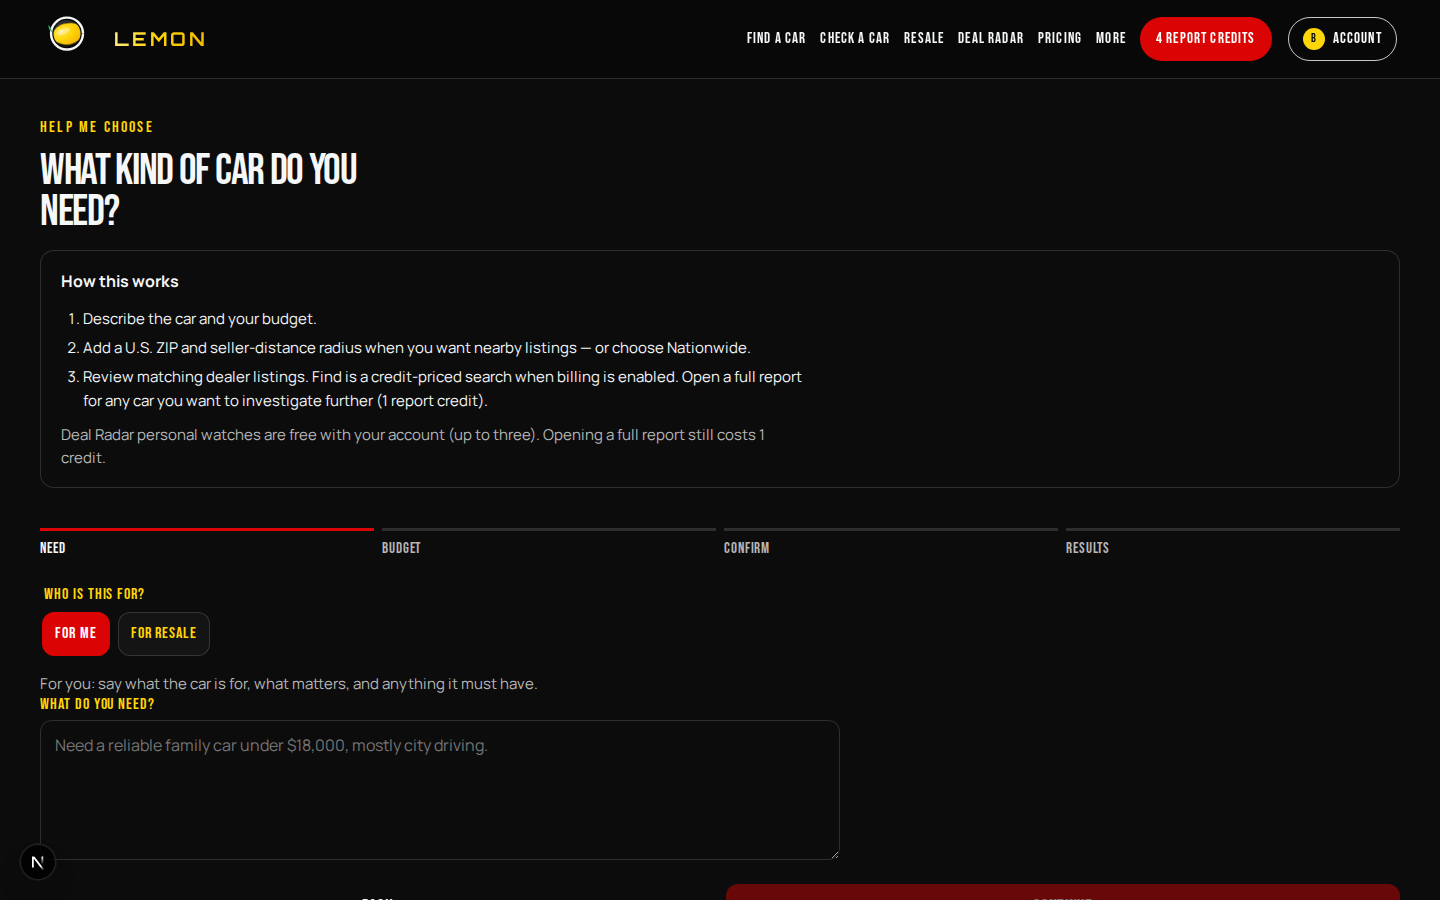
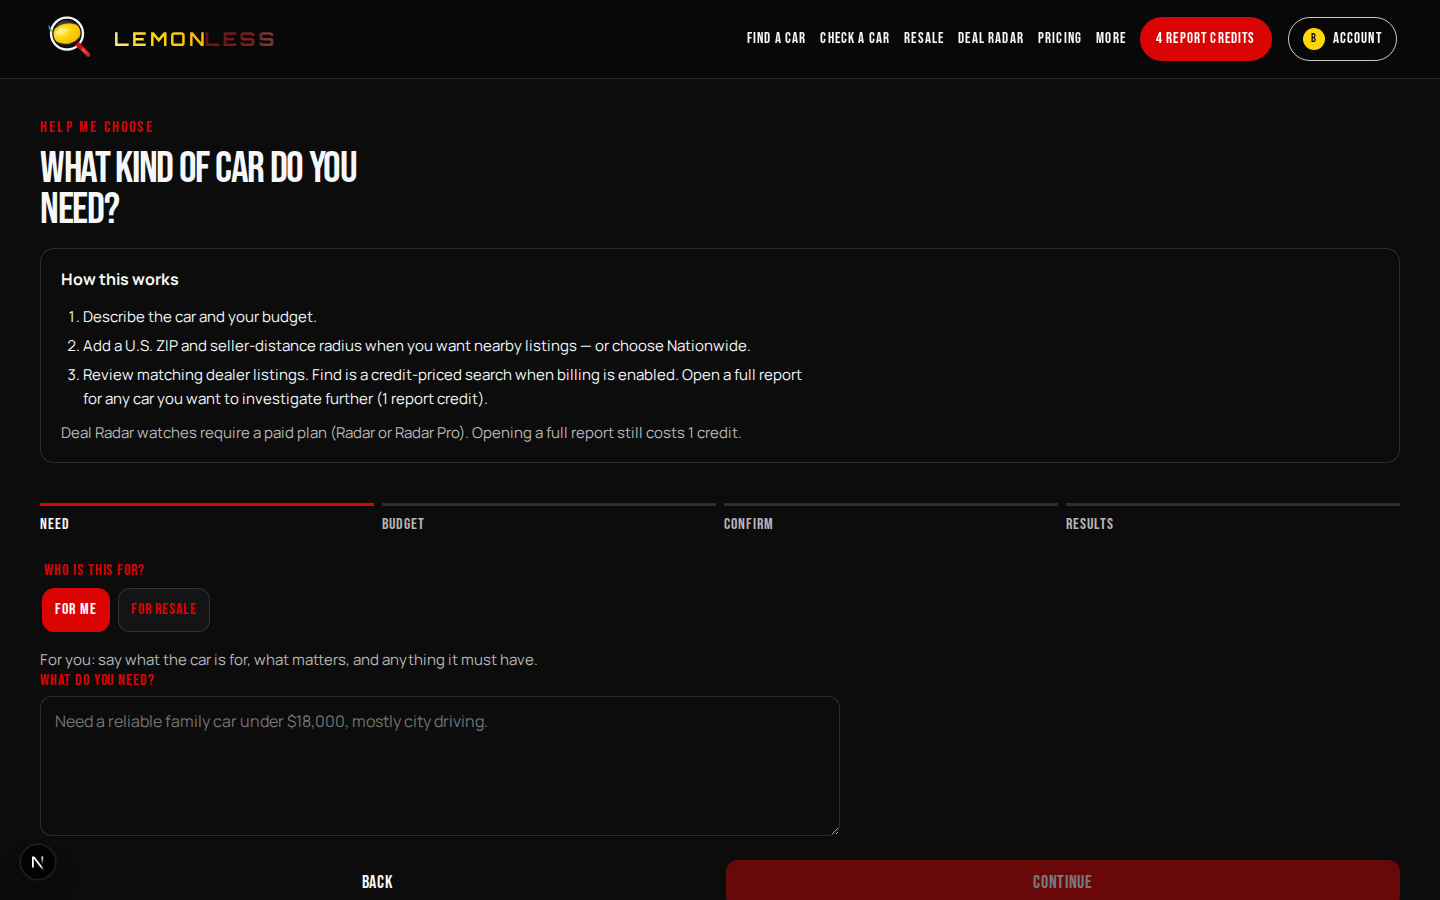
style: brand chrome + separate home hero slogan
Match Yura’s Find reference: condensed --type-brand + red --brand-accent
eyebrows/labels site-wide (buttons, nav, steps, pills, badges, CTAs).
Home hero: slogan is its own block above the search card (stack by default;
optional two-column only past 1600px) so the eyebrow no longer overlaps
the headline and the card is not glued to a 280px column. Find/SignInGate
copy matches paid-only Radar. Playwright brand-type assertions kept.

diff --git a/src/app/globals.css b/src/app/globals.css
@@ -46,9 +46,11 @@
   --type-brand-size-label: 0.875rem; /* 14px min for labels */
   --type-brand-size-nav: 0.8125rem; /* 13px nav / tabs */
   --type-brand-line: 1.15;
-  /* Yellow accent (wordmark lemon) — labels / eyebrows / chips on dark. */
+  /* Lemon yellow — wordmark / LEMONLESS in hero only. */
   --brand-yellow: #ffd60a;
   --brand-yellow-ink: #0a0a0a;
+  /* Eyebrow / form-label accent — same red as “HELP ME CHOOSE”. */
+  --brand-accent: var(--blue);
   --ease: cubic-bezier(0.16, 1, 0.3, 1);
   --pad: 28px;
   /* Shared content column for interior pages (header is full-bleed separately). */
@@ -81,7 +83,7 @@
 .label,
 .eyebrow {
   font-size: max(14px, var(--type-brand-size-label));
-  color: var(--brand-yellow);
+  color: var(--brand-accent);
 }
 .btn {
   font-size: max(14px, var(--type-brand-size-btn));
@@ -813,7 +815,7 @@ span.nav-go { cursor: default; }
   padding-top: 10px;
   border-top: 3px solid var(--line);
   font-family: var(--type-brand);
-  font-size: max(13px, var(--type-brand-size-nav));
+  font-size: max(14px, var(--type-brand-size-label));
   font-weight: var(--type-brand-weight);
   letter-spacing: var(--type-brand-tracking);
   text-transform: uppercase;
@@ -848,14 +850,14 @@ span.nav-go { cursor: default; }
 }
 .kicker,
 .eyebrow {
-  margin: 0 0 14px;
+  margin: 0 0 12px;
   font-family: var(--type-brand);
   font-weight: var(--type-brand-weight);
   font-size: max(14px, var(--type-brand-size-label));
   letter-spacing: 0.14em;
   text-transform: uppercase;
   line-height: var(--type-brand-line);
-  color: var(--brand-yellow);
+  color: var(--brand-accent);
 }
 h1, h2, h3 {
   font-family: var(--type-brand);
@@ -963,7 +965,7 @@ button:disabled, .action:disabled, .quiet:disabled, .ghost:disabled {
   letter-spacing: 0.08em;
   text-transform: uppercase;
   line-height: var(--type-brand-line);
-  color: var(--brand-yellow);
+  color: var(--brand-accent);
 }
 .sheet-title {
   margin: 0 0 18px;
@@ -1099,7 +1101,7 @@ button:disabled, .action:disabled, .quiet:disabled, .ghost:disabled {
   letter-spacing: var(--type-brand-tracking);
   text-transform: uppercase;
   line-height: var(--type-brand-line);
-  color: var(--brand-yellow);
+  color: var(--brand-accent);
 }
 .field legend { margin-bottom: 8px; }
 .field > label, .field label.block { display: block; margin-bottom: 6px; }
@@ -1250,7 +1252,7 @@ code, .sheet-page a, .prose a {
   letter-spacing: var(--type-brand-tracking);
   text-transform: uppercase;
   line-height: var(--type-brand-line);
-  color: var(--brand-yellow);
+  color: var(--brand-accent);
 }
 
 .radar-list { display: grid; }
@@ -1290,7 +1292,7 @@ th {
   letter-spacing: 0.06em;
   text-transform: uppercase;
   line-height: var(--type-brand-line);
-  color: var(--brand-yellow);
+  color: var(--brand-accent);
 }
 td { font-family: var(--sans); }
 .sheet-page a { text-decoration: underline; text-underline-offset: 3px; }
@@ -1421,7 +1423,7 @@ pre.doc {
 .colophon h2,
 .colophon h3 {
   font-family: var(--type-brand);
-  color: var(--brand-yellow);
+  color: var(--brand-accent);
 }
 
 @media (prefers-reduced-motion: no-preference) {
@@ -1569,30 +1571,83 @@ pre.doc {
 .film-overlay { position: absolute; inset: 0; z-index: 2; pointer-events: none; }
 .film-copy {
   position: absolute;
-  top: max(112px, calc(env(safe-area-inset-top, 0px) + 96px));
+  top: max(96px, calc(env(safe-area-inset-top, 0px) + 80px));
   left: 50%;
   right: auto;
   margin-inline: 0;
   transform: translateX(-50%);
+  /* Landing pattern: slogan first, search card as its own block below. */
   display: grid;
-  grid-template-columns: minmax(0, 280px) minmax(0, 1fr);
-  gap: 8px 28px;
-  align-items: center;
+  grid-template-columns: 1fr;
+  gap: 28px;
+  align-items: start;
+  justify-items: start;
   pointer-events: auto;
-  padding: 12px 16px;
-  border-radius: 16px;
-  background: linear-gradient(180deg, rgba(5, 5, 5, 0.55), rgba(5, 5, 5, 0.28));
-  border: 1px solid rgba(255, 255, 255, 0.1);
+  padding: 0;
+  border-radius: 0;
+  background: transparent;
+  border: none;
   transition: opacity 0.4s ease, transform 0.4s ease;
   max-width: min(var(--site-max), calc(100% - 2 * var(--site-gutter)));
   box-sizing: border-box;
+  width: min(var(--site-max), calc(100% - 2 * var(--site-gutter)));
 }
 .phase-detail .film-copy { opacity: 0; transform: translateX(-50%) translateY(-10px); pointer-events: none; }
-.film-copy h1 { text-transform: none; font-size: clamp(26px, 2.4vw, 36px); max-width: 14ch; margin: 4px 0 6px; line-height: 0.95; }
-.film-copy .lead { font-size: 13px; line-height: 1.35; margin: 0 0 8px; color: rgba(255,255,255,0.8); }
-.film-copy textarea { min-height: 0; height: 58px; font-size: 14px; }
+.film-slogan {
+  position: relative;
+  z-index: 2;
+  max-width: min(22ch, 100%);
+  padding: 6px 10px 8px 0;
+  /* Keep eyebrow clear of the display headline (no overlap). */
+  display: grid;
+  gap: 12px;
+}
+.film-slogan .kicker {
+  margin: 0;
+  position: relative;
+  z-index: 1;
+}
+.film-slogan .brand-hero-title,
+.film-copy .brand-hero-title {
+  text-transform: uppercase;
+  font-size: clamp(48px, 7vw, 92px);
+  max-width: 11ch;
+  margin: 0;
+  line-height: 0.88;
+  letter-spacing: -0.03em;
+}
+.film-slogan .lead,
+.film-copy .lead {
+  font-family: var(--sans);
+  font-size: clamp(14px, 1.4vw, 18px);
+  line-height: 1.4;
+  margin: 0;
+  max-width: 38ch;
+  color: rgba(255, 255, 255, 0.86);
+}
+.film-search {
+  position: relative;
+  z-index: 1;
+  width: min(100%, 560px);
+  padding: 16px 18px;
+  border-radius: 16px;
+  background: linear-gradient(180deg, rgba(5, 5, 5, 0.78), rgba(5, 5, 5, 0.48));
+  border: 1px solid rgba(255, 255, 255, 0.12);
+  box-sizing: border-box;
+}
+.film-copy textarea { min-height: 0; height: 72px; font-size: 15px; }
 .film-copy .btn-row { margin-top: 8px; }
 .film-copy .hero-chat { margin-top: 0; }
+/* Ultra-wide only: optional clear two-column — slogan stays large, search is a separate card. */
+@media (min-width: 1600px) {
+  .film-copy {
+    grid-template-columns: minmax(0, 1.05fr) minmax(420px, 0.7fr);
+    gap: 40px 64px;
+    align-items: end;
+  }
+  .film-slogan { max-width: 12ch; }
+  .film-search { width: 100%; justify-self: end; }
+}
 .sale-caption {
   position: absolute;
   left: 50%;
@@ -1672,33 +1727,35 @@ pre.doc {
     min-height: 100svh;
   }
   .film-copy {
-    top: 84px;
-    bottom: 52px;
+    top: max(76px, calc(env(safe-area-inset-top, 0px) + 64px));
+    bottom: auto;
     left: 50%;
     right: auto;
     transform: translateX(-50%);
-    display: flex;
-    flex-direction: column;
-    justify-content: space-between;
+    display: grid;
+    grid-template-columns: 1fr;
+    gap: 18px;
     background: transparent;
     border: none;
     padding: 0;
     pointer-events: none;
   }
-  .film-copy > div {
+  .film-slogan,
+  .film-search {
     pointer-events: auto;
     min-width: 0;
     max-width: 100%;
+    width: 100%;
     box-sizing: border-box;
-    background: linear-gradient(180deg, rgba(5, 5, 5, 0.72), rgba(5, 5, 5, 0.42));
-    border: 1px solid rgba(255, 255, 255, 0.1);
-    border-radius: 16px;
+  }
+  .film-search {
     padding: 12px;
   }
-  .film-copy h1,
+  .film-slogan .brand-hero-title,
   .film-copy .brand-hero-title {
     max-width: 100%;
     overflow-wrap: anywhere;
+    font-size: clamp(34px, 10vw, 48px);
   }
   .story-after { padding: 48px var(--site-pad); }
 }
@@ -1709,15 +1766,15 @@ pre.doc {
   .film-copy {
     left: 50%;
     right: auto;
-    top: max(76px, calc(env(safe-area-inset-top, 0px) + 60px));
+    top: max(72px, calc(env(safe-area-inset-top, 0px) + 56px));
     transform: translateX(-50%);
   }
-  .film-copy > div { padding: 10px; }
-  .film-copy h1,
+  .film-search { padding: 10px; }
+  .film-slogan .brand-hero-title,
   .film-copy .brand-hero-title {
-    font-size: clamp(22px, 8vw, 32px);
+    font-size: clamp(30px, 9vw, 40px);
   }
-  .film-copy .lead { font-size: 12px; }
+  .film-copy .lead { font-size: 13px; }
   .bar {
     margin: 0;
     width: 100%;
@@ -1953,7 +2010,7 @@ pre.doc {
   letter-spacing: var(--type-brand-tracking);
   text-transform: uppercase;
   line-height: var(--type-brand-line);
-  color: var(--brand-yellow);
+  color: var(--brand-accent);
 }
 .auth-email input[type="email"] {
   font-family: inherit;
@@ -1989,7 +2046,7 @@ pre.doc {
   letter-spacing: var(--type-brand-tracking);
   text-transform: uppercase;
   line-height: var(--type-brand-line);
-  color: var(--brand-yellow);
+  color: var(--brand-accent);
 }
 .scout-controls input,
 .scout-controls select {

diff --git a/src/components/HomeStage.tsx b/src/components/HomeStage.tsx
@@ -22,12 +22,12 @@ export function HomeStage() {
           </div>
             <div className={`film-overlay phase-${phase}`}>
             <div className="film-copy site-frame">
-              <div>
+              <div className="film-slogan">
                 <p className="kicker">Used-car verdicts you can check.</p>
                 <BrandHeroTitle />
                 <p className="lead">Find better cars. Detect hidden risks. Make smarter decisions.</p>
               </div>
-              <div>
+              <div className="film-search">
                 <HomeSearch onModeChange={setMode} />
                 <p className="sample-link">
                   <Link href="/report/sample">See a sample report</Link>

diff --git a/src/components/SignInGate.tsx b/src/components/SignInGate.tsx
@@ -46,7 +46,7 @@ export function SignInGate({
         <h2>Sign in to continue</h2>
         <p className="lead">{gateLead(callbackPath)}</p>
         {callbackPath === "/radar" ? (
-          <p className="hint">Personal watches are free with your account (up to three). Opening a full report still costs 1 credit.</p>
+          <p className="hint">Deal Radar watches require a paid plan (Radar or Radar Pro). Opening a full report still costs 1 credit.</p>
         ) : (
           <p className="hint">{formatFreeChecksSignInPrompt()}</p>
         )}

diff --git a/src/app/find/page.tsx b/src/app/find/page.tsx
@@ -29,7 +29,7 @@ export default async function FindPage({
           </ol>
           {resolveProductFlags().dealRadar ? (
             <p>
-              Deal Radar personal watches are free with your account (up to three). Opening a full report still costs 1 credit.
+              Deal Radar watches require a paid plan (Radar or Radar Pro). Opening a full report still costs 1 credit.
             </p>
           ) : null}
         </div>
